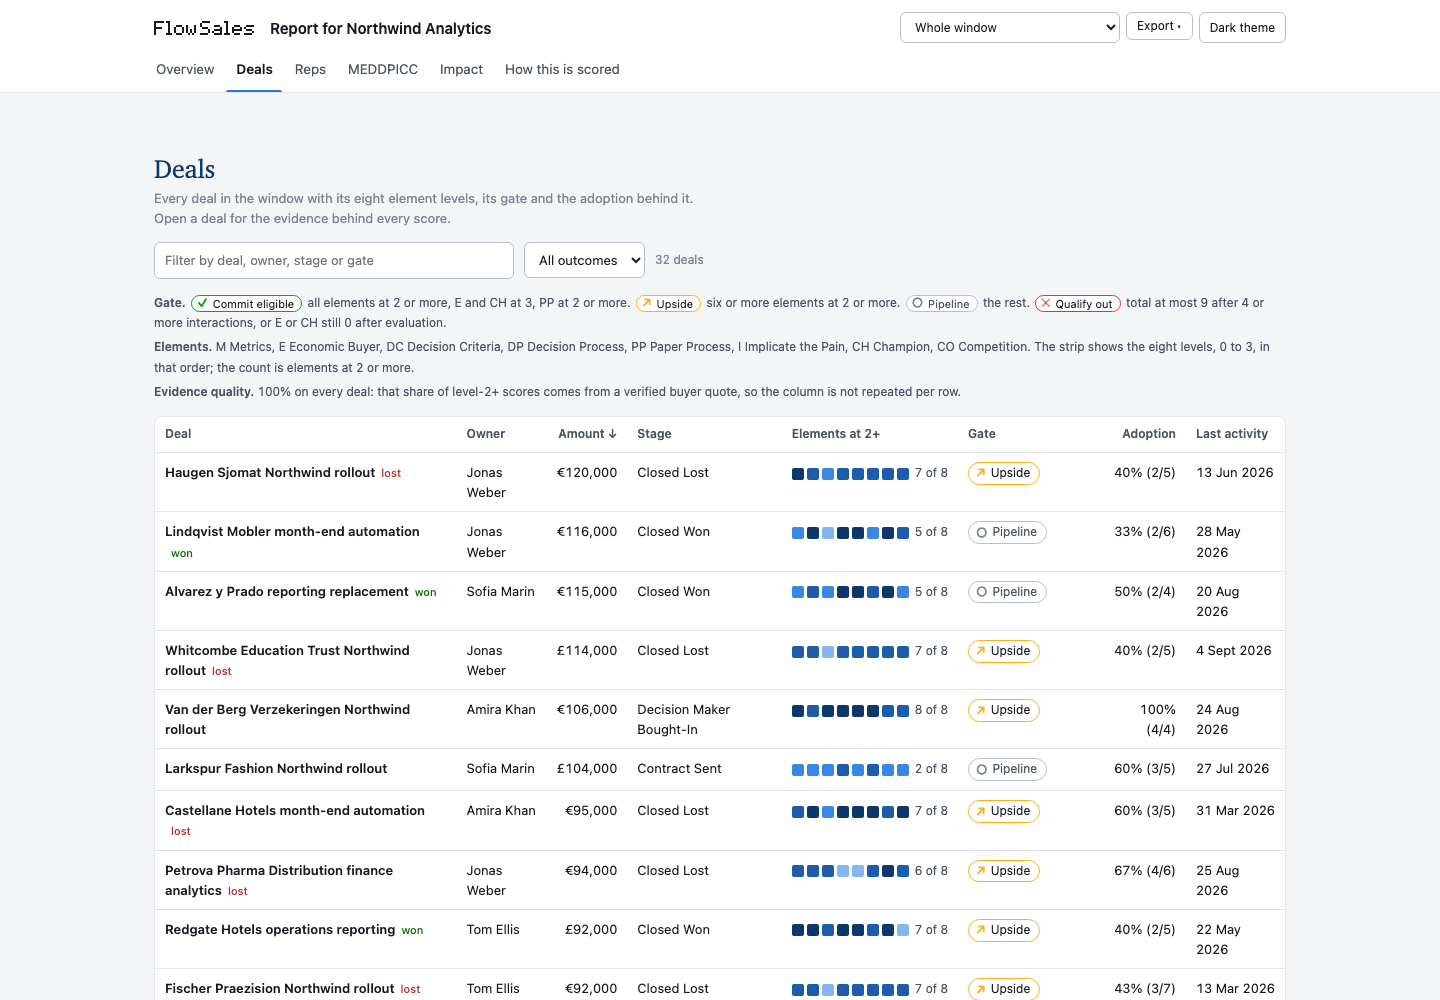
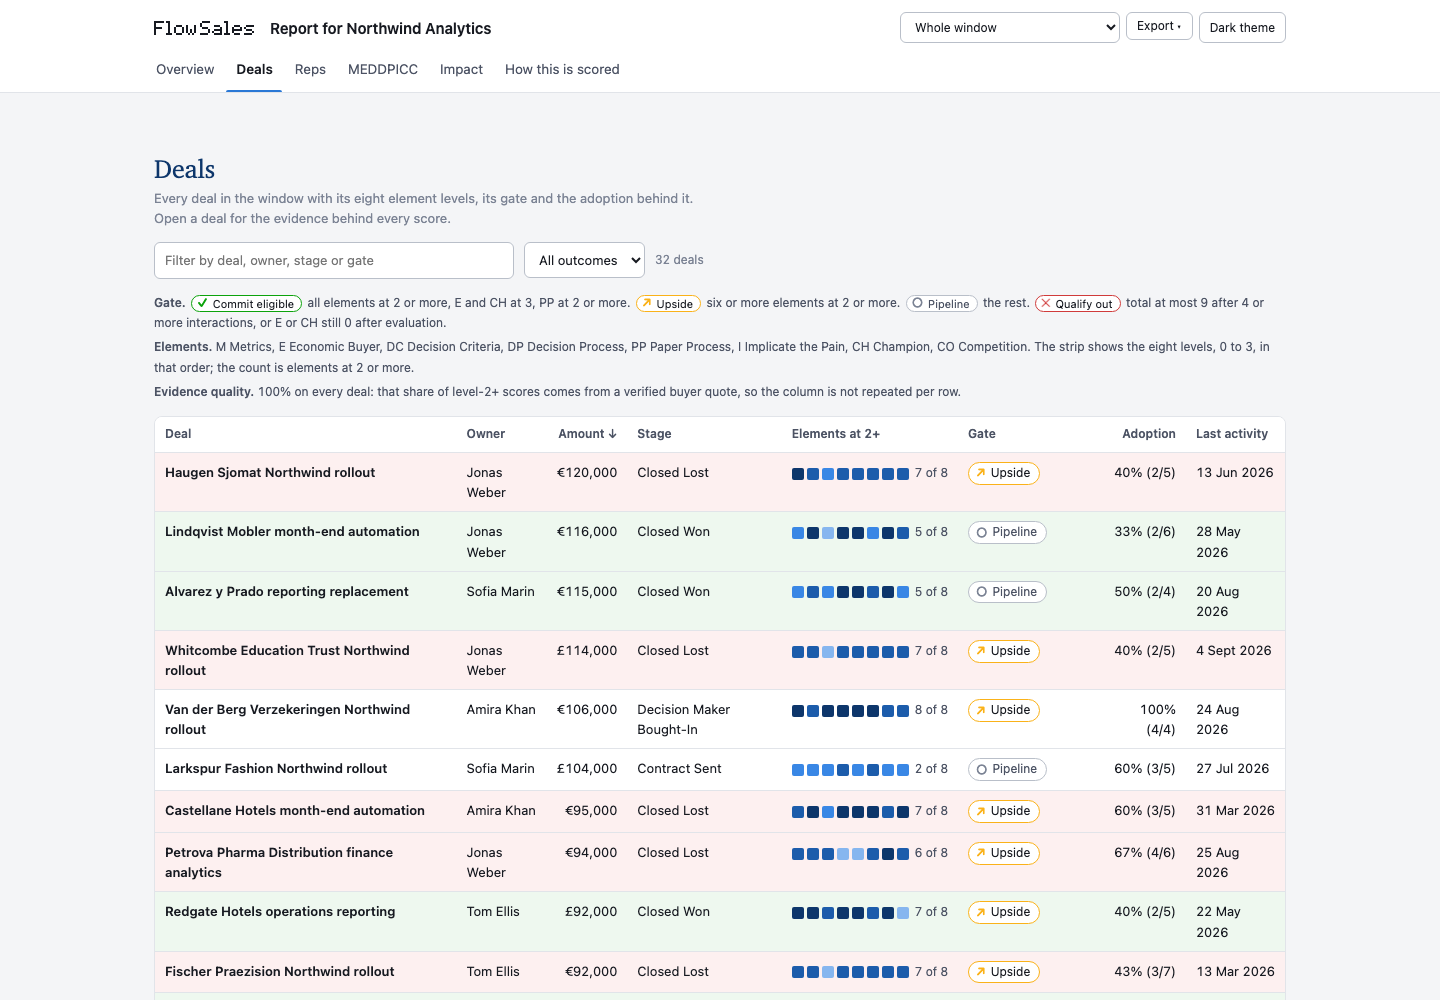
deals: closed rows tinted by outcome instead of a won/lost tag beside the name
The Stage column already says Closed Won or Closed Lost; the small tag next to the deal name repeated it. Rows now carry the outcome as a faint green or red background (light, dark and the phone cards), and the row's accessible label says "closed won" or "closed lost".

Claude-Session: https://claude.ai/code/session_019eMWvxg19gKofNTaq4rmUt

Changed region(s): [[0.0938, 0.837, 0.9062, 1.0], [0.3125, 0.837, 0.5, 0.93]]

diff --git a/scripts/flowsales/report/template.html b/scripts/flowsales/report/template.html
@@ -28,7 +28,7 @@
   --page: #f4f5f7; --surface: #ffffff; --raised: #f9fafb;
   --ink: #171a21; --ink-2: #4c5364; --muted: #7b8394; --display: #0d366b;
   --grid: #e6e8ec; --axis: #c9cdd5; --rule: #e1e4e9; --rule-strong: #b9bfc9;
-  --good-text: #0a6e0a; --bad-text: #b32d2d;
+  --good-text: #0a6e0a; --bad-text: #b32d2d; --won-bg: #eef8ef; --won-bg-hover: #e1f1e3; --lost-bg: #fdf0f0; --lost-bg-hover: #f8e2e2;
   --s0: #7b8394; --s1: #2a78d6; --s2: #eb6834; --s3: #1baf7a; --s4: #eda100; --s5: #e87ba4; --s6: #008300; --s7: #4a3aa7; --s8: #e34948;
   --lv0: #86b6ef; --lv1: #3987e5; --lv2: #1c5cab; --lv3: #0d366b;
   --lv0-ink: #0d1b2e; --lv1-ink: #ffffff; --lv2-ink: #ffffff; --lv3-ink: #ffffff;
@@ -43,7 +43,7 @@
   --page: #0e1116; --surface: #161a21; --raised: #1c212a;
   --ink: #f3f4f6; --ink-2: #b8bec9; --muted: #808896; --display: #b7d3f6;
   --grid: #262b34; --axis: #363c47; --rule: #262b34; --rule-strong: #3a414d;
-  --good-text: #3fbf3f; --bad-text: #e66767;
+  --good-text: #3fbf3f; --bad-text: #e66767; --won-bg: #1b2a1f; --won-bg-hover: #223627; --lost-bg: #2e1d1f; --lost-bg-hover: #3b2528;
   --s0: #808896; --s1: #3987e5; --s2: #d95926; --s3: #199e70; --s4: #c98500; --s5: #d55181; --s6: #008300; --s7: #9085e9; --s8: #e66767;
   --lv0: #184f95; --lv1: #2a78d6; --lv2: #6da7ec; --lv3: #b7d3f6;
   --lv0-ink: #ffffff; --lv1-ink: #ffffff; --lv2-ink: #0d1b2e; --lv3-ink: #0d1b2e;
@@ -58,7 +58,7 @@
   --page: #0e1116; --surface: #161a21; --raised: #1c212a;
   --ink: #f3f4f6; --ink-2: #b8bec9; --muted: #808896; --display: #b7d3f6;
   --grid: #262b34; --axis: #363c47; --rule: #262b34; --rule-strong: #3a414d;
-  --good-text: #3fbf3f; --bad-text: #e66767;
+  --good-text: #3fbf3f; --bad-text: #e66767; --won-bg: #1b2a1f; --won-bg-hover: #223627; --lost-bg: #2e1d1f; --lost-bg-hover: #3b2528;
   --s0: #808896; --s1: #3987e5; --s2: #d95926; --s3: #199e70; --s4: #c98500; --s5: #d55181; --s6: #008300; --s7: #9085e9; --s8: #e66767;
   --lv0: #184f95; --lv1: #2a78d6; --lv2: #6da7ec; --lv3: #b7d3f6;
   --lv0-ink: #ffffff; --lv1-ink: #ffffff; --lv2-ink: #0d1b2e; --lv3-ink: #0d1b2e;
@@ -225,8 +225,8 @@ caption { text-align: left; color: var(--muted); font-size: 12px; padding: 4px 0
 .deal-row { cursor: pointer; }
 .deal-row:hover { background: var(--tint); }
 .deal-row td.name { font-weight: 600; }
-.deal-row td.name .outcome { display: inline-block; font-weight: 500; font-size: 11px; color: var(--muted); margin-left: 6px; }
-.deal-row td.name .outcome.won { color: var(--good-text); } .deal-row td.name .outcome.lost { color: var(--bad-text); }
+.deal-row.won { background: var(--won-bg); } .deal-row.won:hover { background: var(--won-bg-hover); }
+.deal-row.lost { background: var(--lost-bg); } .deal-row.lost:hover { background: var(--lost-bg-hover); }
 .deal-row td { padding-top: 9px; padding-bottom: 9px; }
 .strip-cell { white-space: nowrap; }
 .count { color: var(--ink-2); font-size: 12px; margin-left: 6px; }
@@ -467,6 +467,7 @@ ul.plain li { margin: 4px 0; max-width: 90ch; }
   .deals-table, .deals-table tbody, .deals-table tr, .deals-table td { display: block; }
   .deals-table thead { display: none; }
   .deals-table tr.deal-row { background: var(--surface); border: 1px solid var(--rule); border-radius: 8px; padding: 10px 12px 8px; margin: 10px 0; }
+  .deals-table tr.deal-row.won { background: var(--won-bg); } .deals-table tr.deal-row.lost { background: var(--lost-bg); }
   .deals-table td { border: 0; padding: 2px 0; text-align: left; }
   .deals-table td.num { text-align: left; }
   .deals-table td.name { font-size: 15px; padding-bottom: 4px; }
@@ -482,7 +483,7 @@ ul.plain li { margin: 4px 0; max-width: 90ch; }
 
 /* ---------- print: the active tab, light tokens, no chrome */
 @media print {
-  :root, :root[data-theme="dark"], :root:not([data-theme="light"]) { --page: #fff; --surface: #fff; --raised: #fff; --ink: #111; --ink-2: #444; --muted: #666; --display: #0d366b; --grid: #ddd; --axis: #bbb; --rule: #ddd; --rule-strong: #bbb; --tint: #f2f5fa; }
+  :root, :root[data-theme="dark"], :root:not([data-theme="light"]) { --page: #fff; --surface: #fff; --raised: #fff; --ink: #111; --ink-2: #444; --muted: #666; --display: #0d366b; --grid: #ddd; --axis: #bbb; --rule: #ddd; --rule-strong: #bbb; --tint: #f2f5fa; --won-bg: #eef8ef; --won-bg-hover: #eef8ef; --lost-bg: #fdf0f0; --lost-bg-hover: #fdf0f0; }
   @page { margin: 14mm; }
   html, body { background: #fff; }
   .top { position: static; border: 0; }
@@ -1319,7 +1320,7 @@ ul.plain li { margin: 4px 0; max-width: 90ch; }
   var COLS = [
     { key: 'name', label: 'Deal', get: function (r) { return r.d.name || r.d.id; }, show: function (r) {
       var o = r.d.outcome;
-      return [r.d.name || r.d.id, o === 'won' || o === 'lost' ? h('span', { class: 'outcome ' + o }, o) : null]; } },
+      return r.d.name || r.d.id; } },
     { key: 'owner', label: 'Owner', cls: 'm-inline', get: function (r) { return repName(r.d.ownerId); } },
     { key: 'amount', label: 'Amount', num: true, cls: 'm-inline', get: function (r) { return r.d.amount; }, show: function (r) { return fmt.money(r.d.amount, r.d.currency); } },
     { key: 'stage', label: 'Stage', cls: 'm-inline', get: function (r) { return r.d.stageLabel || r.d.stage || ''; } },
@@ -1383,7 +1384,8 @@ ul.plain li { margin: 4px 0; max-width: 90ch; }
       var rows = dealRows();
       count.textContent = rows.length + ' deal' + (rows.length === 1 ? '' : 's');
       rows.forEach(function (r) {
-        var trr = h('tr', { class: 'deal-row', tabindex: '0', role: 'link', 'aria-label': 'Open ' + (r.d.name || r.d.id) });
+        var oc = r.d.outcome === 'won' || r.d.outcome === 'lost' ? r.d.outcome : '';
+        var trr = h('tr', { class: 'deal-row' + (oc ? ' ' + oc : ''), tabindex: '0', role: 'link', 'aria-label': 'Open ' + (r.d.name || r.d.id) + (oc ? ', closed ' + oc : '') });
         cols.forEach(function (c) {
           var v = c.show ? c.show(r) : c.get(r);
           var cls = [c.num && c.key !== 'coverage2' ? 'num' : '', c.key === 'name' ? 'name' : '', c.cls || ''].join(' ').trim();
